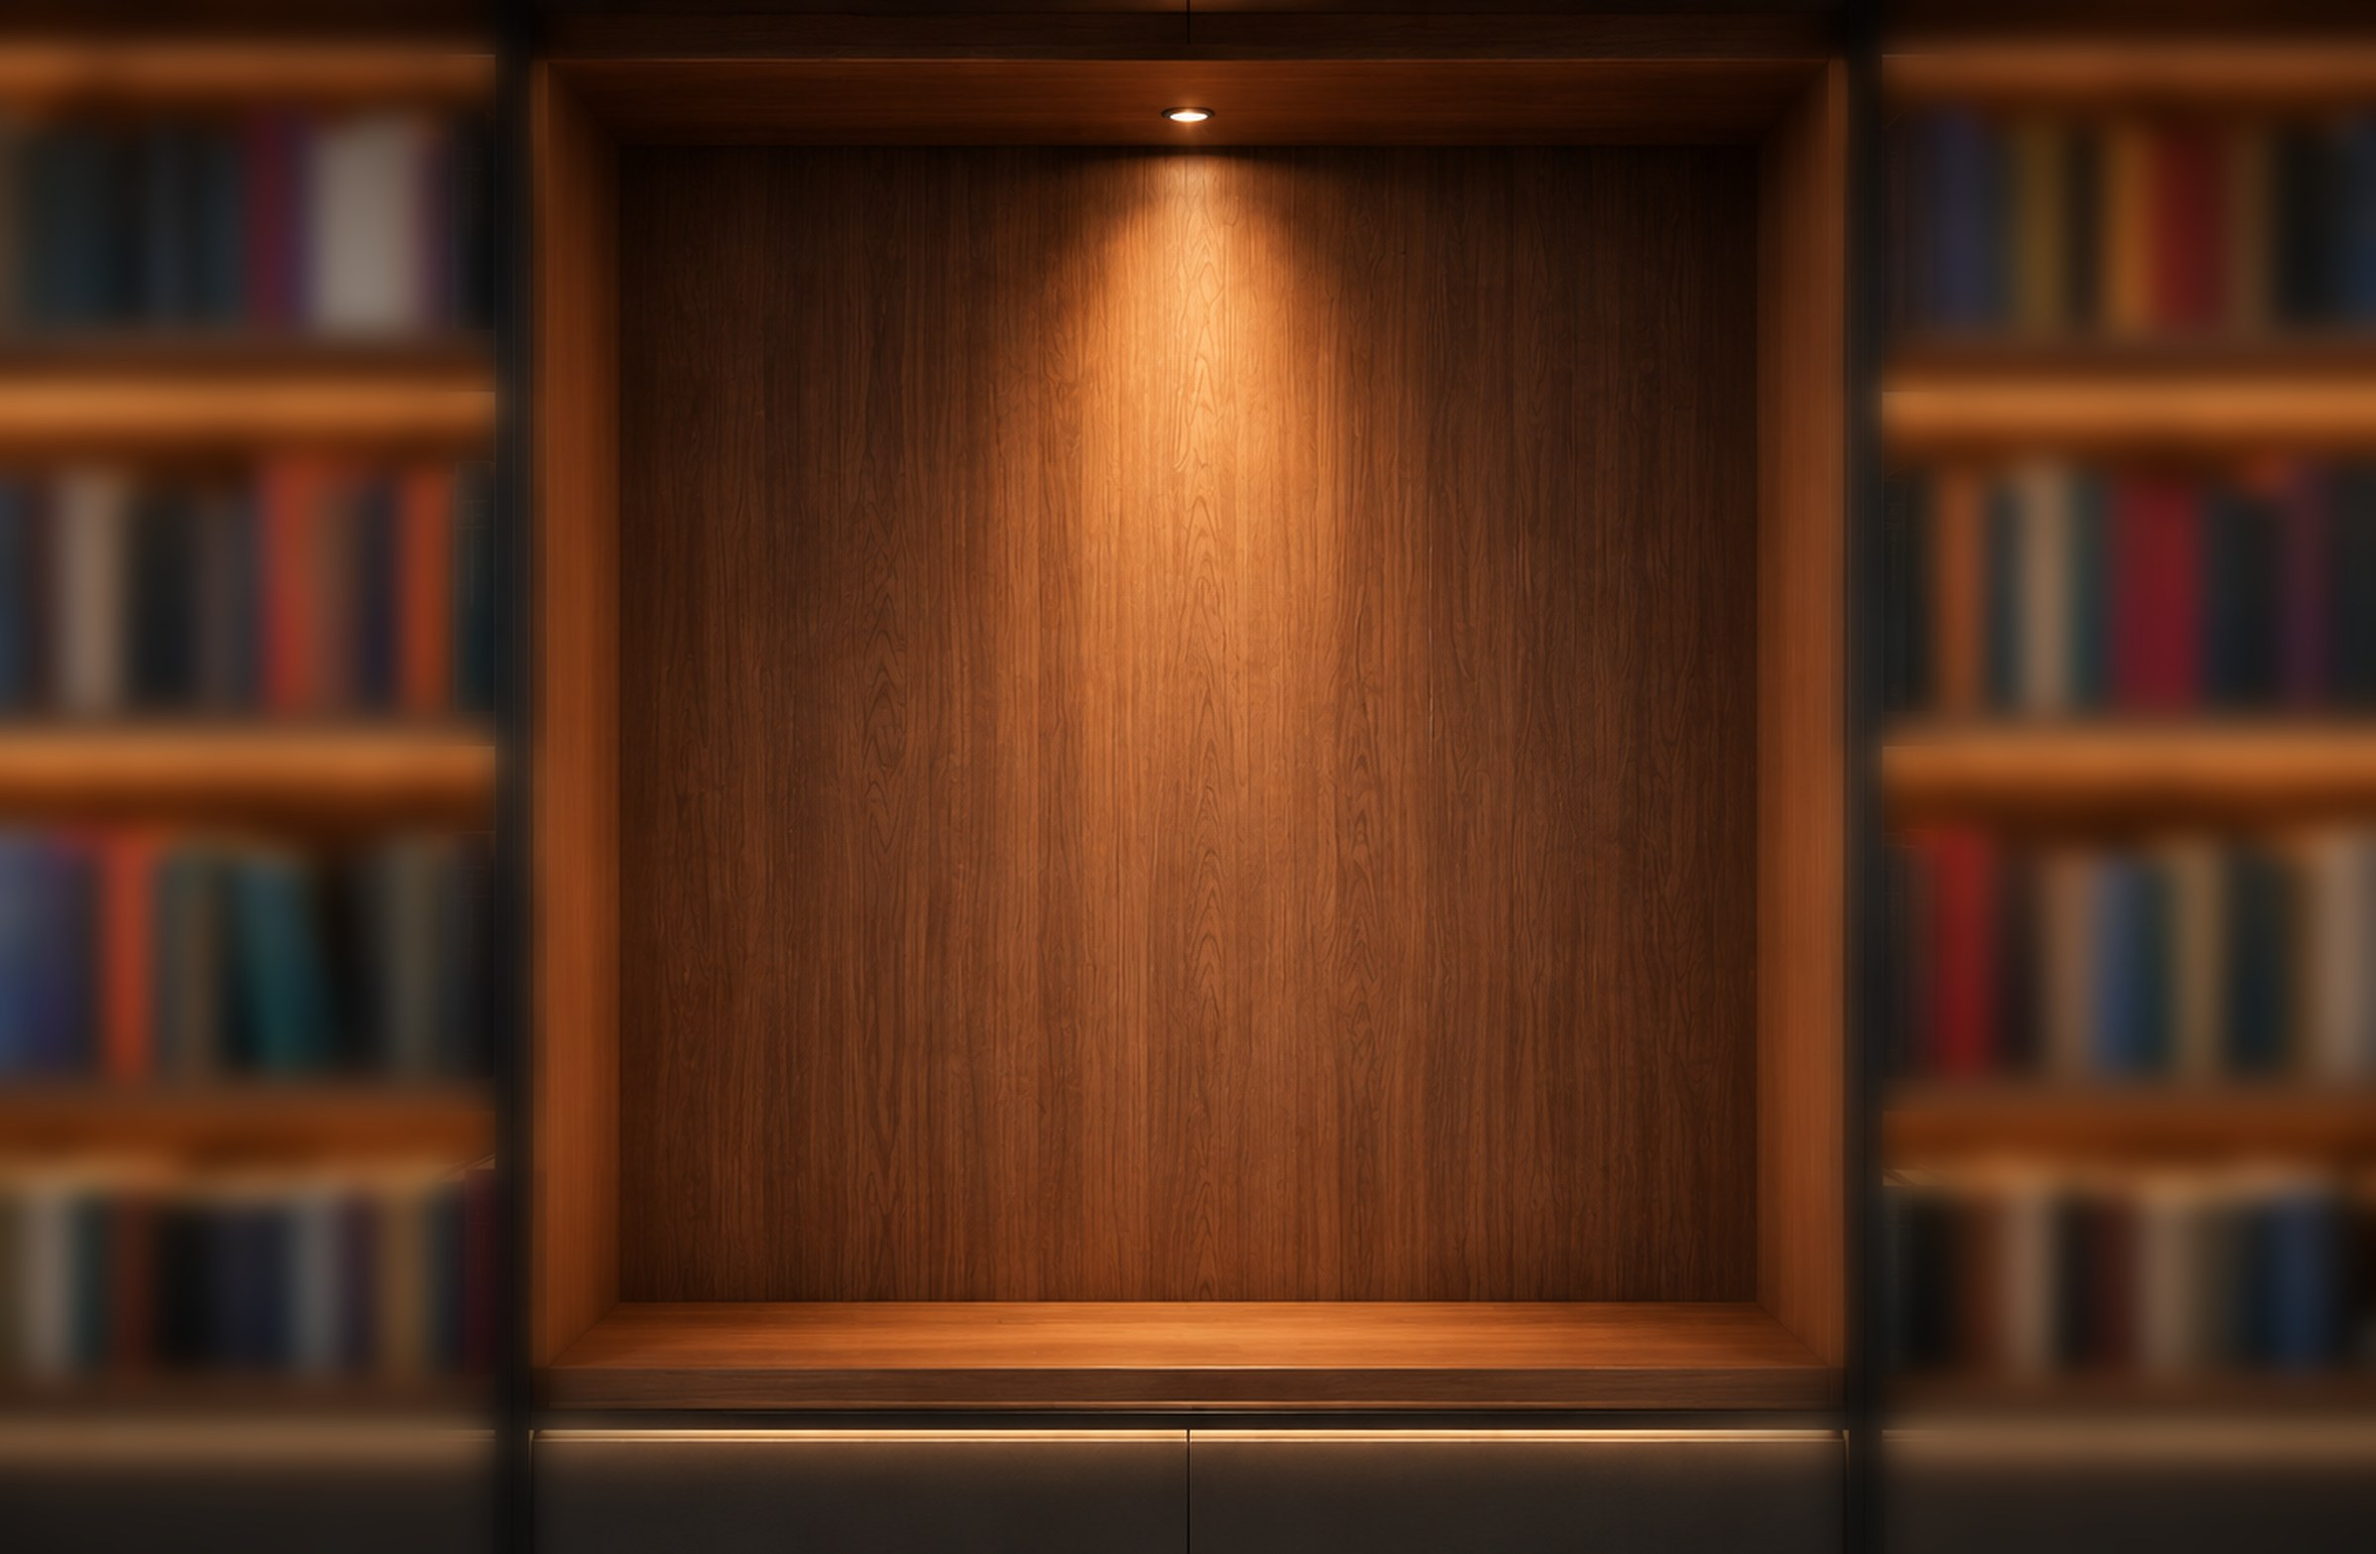
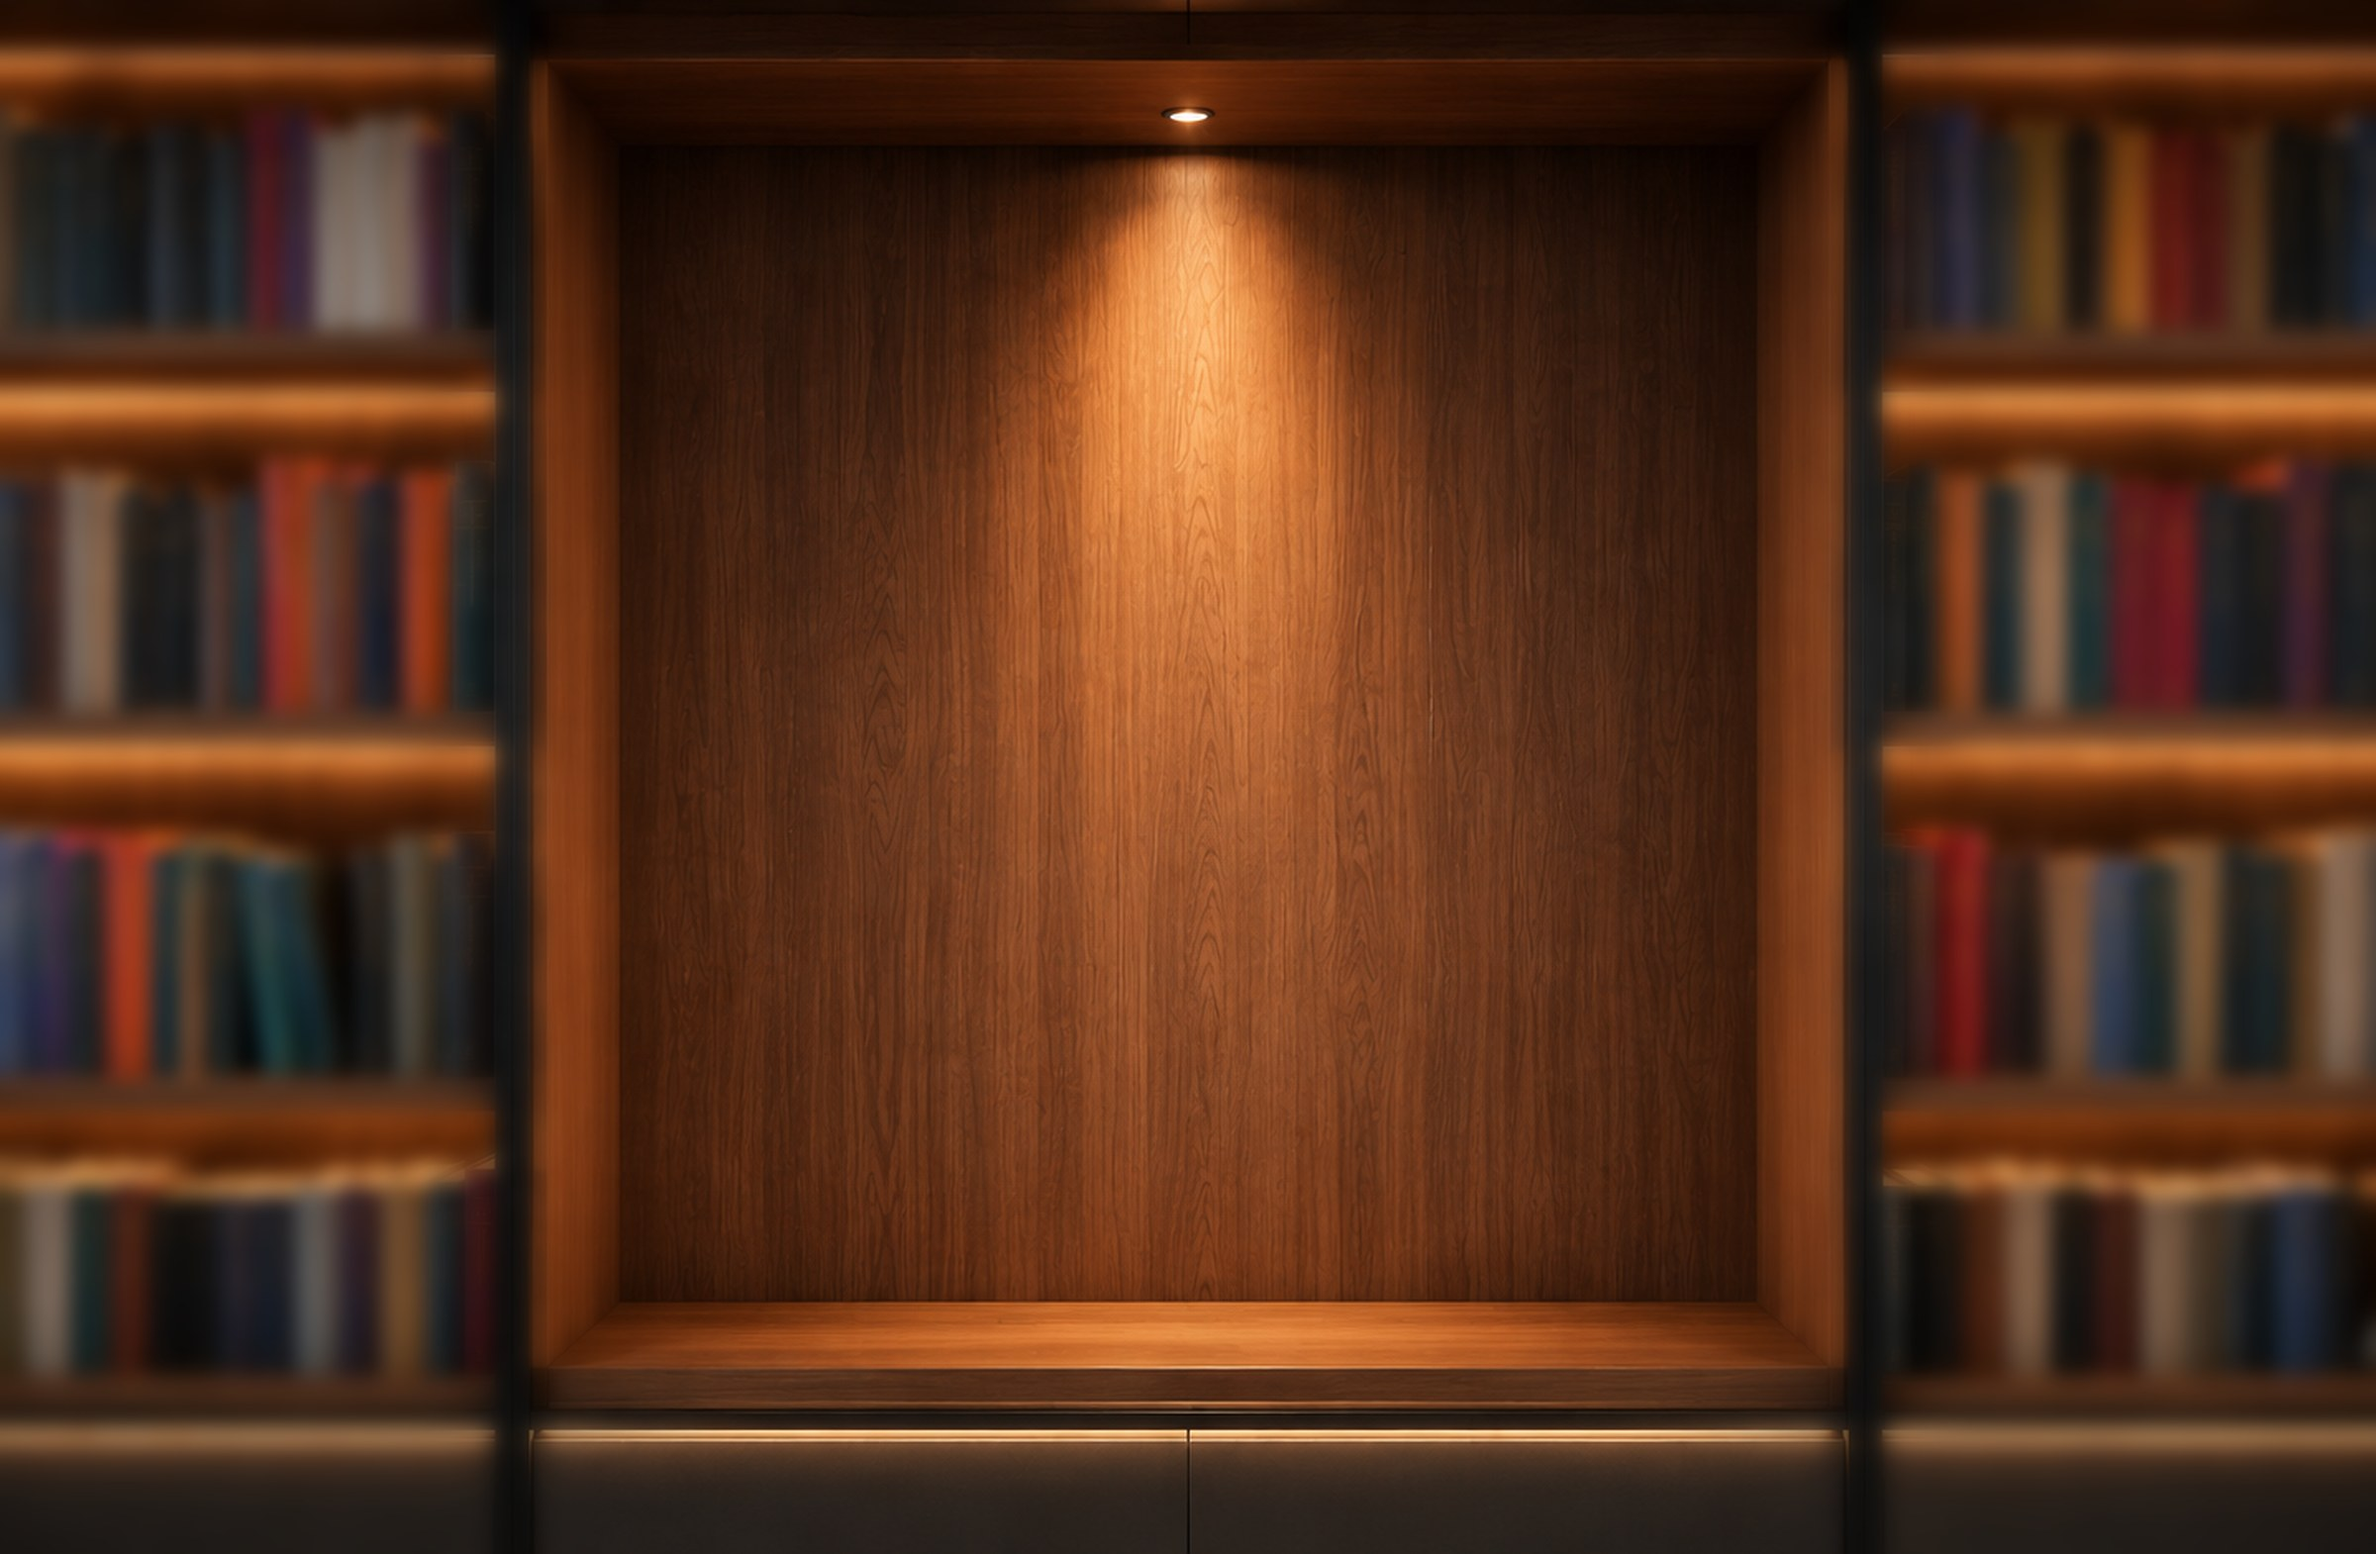
Bajar el blur del fondo y limitar el ancho del libro al hueco del nicho
El libro ahora nunca supera el ancho de la abertura de madera de la
imagen de fondo, calculando su posición on-screen con la misma
matemática que usa background-size: cover.

diff --git a/src/Vidriera.Api/Common/CatalogHtmlBuilder.cs b/src/Vidriera.Api/Common/CatalogHtmlBuilder.cs
@@ -226,6 +226,21 @@ public static class CatalogHtmlBuilder
                     nextBtn.style.right = `${Math.max(window.innerWidth - rect.right - gap - btnSize, 8)}px`;
                 }
 
+                // Pixel bounds of the wooden niche opening inside catalog-bg.jpg (2400x1570),
+                // measured directly off that image so the book never spills onto the blurred
+                // bookshelves at the sides. Since the scene renders as `background-size: cover`,
+                // its on-screen scale/offset is reproduced here with the same cover math.
+                const BG_IMG_W = 2400;
+                const BG_IMG_H = 1570;
+                const NICHE_LEFT_FRAC = 0.273;
+                const NICHE_RIGHT_FRAC = 0.739;
+
+                function getNicheMaxWidth() {
+                    const scale = Math.max(window.innerWidth / BG_IMG_W, window.innerHeight / BG_IMG_H);
+                    const renderedW = BG_IMG_W * scale;
+                    return (NICHE_RIGHT_FRAC - NICHE_LEFT_FRAC) * renderedW;
+                }
+
                 // Fit-to-screen, no scrollbars: compute the exact size the page fits at within
                 // the viewport (minus the toolbar rail) without overflowing either axis. Clamped
                 // to a sane minimum so extreme browser zoom (Chrome's Ctrl+/Ctrl- affects
@@ -233,7 +248,8 @@ public static class CatalogHtmlBuilder
                 function computeFitSize(pageAspect) {
                     const margin = 32;
                     const toolbarSpace = 90;
-                    const availW = Math.max(window.innerWidth - toolbarSpace - margin * 2, 100);
+                    const nicheW = getNicheMaxWidth() * 0.94;
+                    const availW = Math.max(Math.min(window.innerWidth - toolbarSpace - margin * 2, nicheW), 100);
                     const availH = Math.max(window.innerHeight - margin * 2, 100);
 
                     let w = availW;
